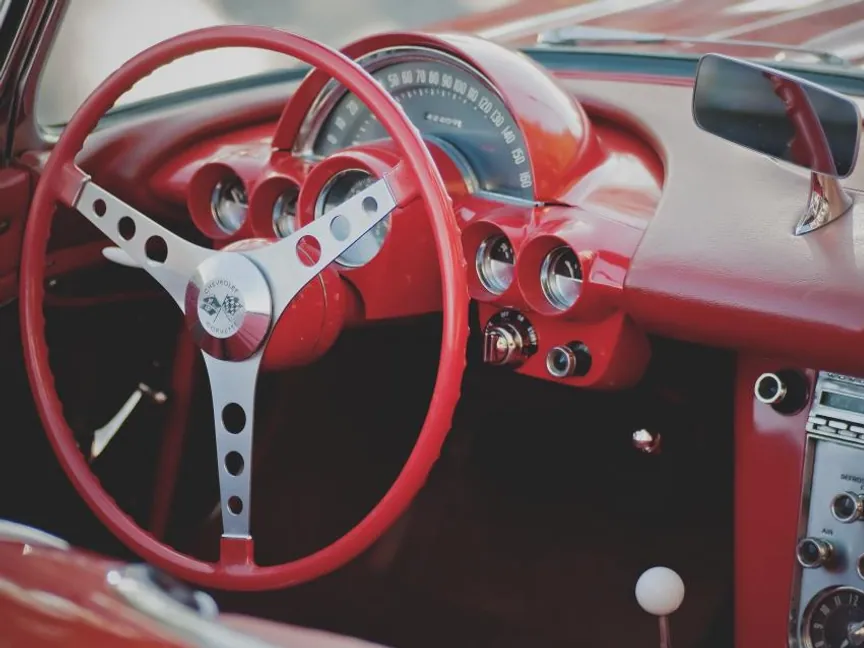
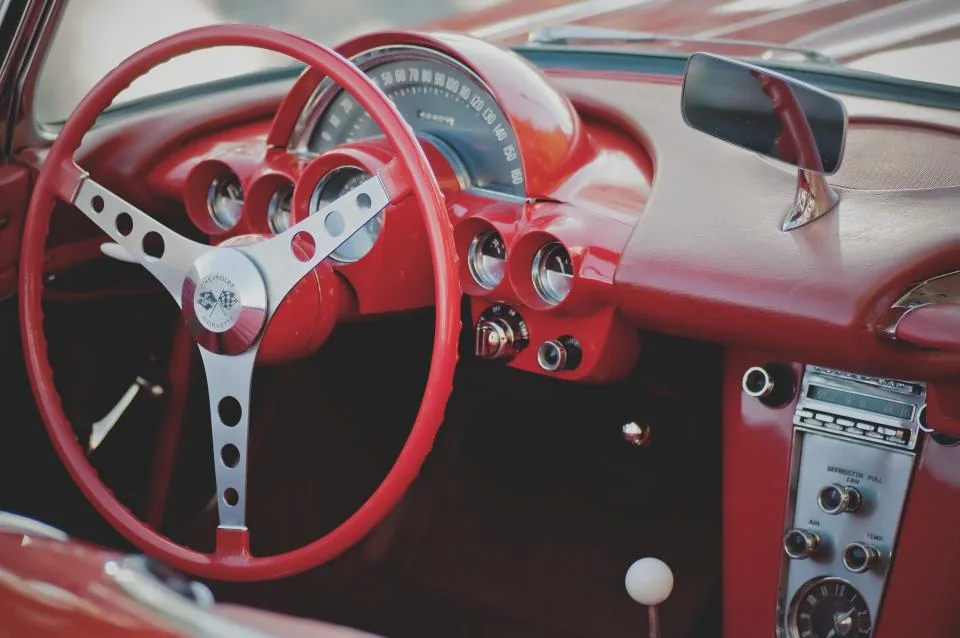
Home categories: magazine mosaic with full-bleed photos
A 2×2 lead tile, four squares, then a wide tile and two squares, closing as
a rectangle on desktop and on phones. The name sits on the photo over a
dark foot shade, with a hairline mount inside the edge; hover zooms the
photo and underlines "Explorează". Photos at their source size, with a
per-photo crop anchor. The section gets a "Vezi toate" link.

diff --git a/src/features/home/components/category-cards.tsx b/src/features/home/components/category-cards.tsx
@@ -1,53 +1,105 @@
 import { ArrowRight } from "@/components/icons"
 import Image from "next/image"
 import Link from "next/link"
+import { getTranslations } from "next-intl/server"
 import { CategoryIcon } from "@/features/auctions/components/category-icon"
 import type { CategoryGroup } from "@/features/auctions/queries"
-import { CATEGORY_PHOTOS } from "../category-photos"
+import { cn } from "@/lib/utils"
+import { CATEGORY_PHOTO_FOCUS, CATEGORY_PHOTOS } from "../category-photos"
 
-/** Home page categories: a photo of a typical object, the name in the serif, a few aisles. */
-export function CategoryCards({ tree }: { tree: CategoryGroup[] }) {
+/**
+ * Tile sizes in the mosaic, by position. Desktop (4 columns): a 2×2 lead tile, four squares
+ * beside it, then a wide tile and two squares, so the block closes as a rectangle. Phones
+ * (2 columns): the lead and the wide tile span both columns.
+ */
+const TILE = [
+  "col-span-2 row-span-2 lg:col-span-2 lg:row-span-2",
+  "",
+  "",
+  "",
+  "",
+  "col-span-2",
+  "",
+  "",
+] as const
+
+/** Home page categories: full-bleed photos with the name set on them, as a magazine mosaic. */
+export async function CategoryCards({ tree }: { tree: CategoryGroup[] }) {
+  const t = await getTranslations("home")
   return (
-    <ul className="grid grid-cols-2 gap-3 md:gap-4 lg:grid-cols-4">
-      {tree.map((c) => {
+    <ul className="grid auto-rows-[10.5rem] grid-cols-2 gap-3 sm:auto-rows-[13rem] md:gap-4 lg:auto-rows-[14.5rem] lg:grid-cols-4">
+      {tree.map((c, i) => {
         const photo = CATEGORY_PHOTOS[c.slug]
+        const lead = i === 0
         return (
-          <li key={c.slug}>
+          <li key={c.slug} className={cn(TILE[i] ?? "")}>
             <Link
               href={`/categorie/${c.slug}`}
-              className="group flex h-full flex-col overflow-hidden rounded-lg border bg-card transition-colors duration-150 ease-out hover:border-input"
+              className="group relative isolate block size-full overflow-hidden rounded-lg bg-ink text-ink-foreground"
             >
-              <span className="relative block aspect-[4/3] overflow-hidden bg-tint">
-                {photo ? (
-                  <Image
-                    src={photo}
-                    alt=""
-                    fill
-                    placeholder="blur"
-                    sizes="(min-width: 1440px) 340px, (min-width: 1024px) 25vw, 50vw"
-                    className="object-cover transition-transform duration-500 ease-out group-hover:scale-[1.04]"
-                  />
-                ) : (
-                  <CategoryIcon
-                    name={c.icon}
-                    className="absolute top-1/2 left-1/2 size-12 -translate-1/2 text-primary"
-                  />
+              {photo ? (
+                <Image
+                  src={photo}
+                  alt=""
+                  fill
+                  placeholder="blur"
+                  style={{ objectPosition: CATEGORY_PHOTO_FOCUS[c.slug] }}
+                  sizes={
+                    lead
+                      ? "(min-width: 1024px) 50vw, 100vw"
+                      : "(min-width: 1024px) 25vw, (min-width: 640px) 50vw, 50vw"
+                  }
+                  className="-z-10 object-cover transition-transform duration-700 ease-out group-hover:scale-[1.05]"
+                />
+              ) : (
+                <CategoryIcon
+                  name={c.icon}
+                  className="absolute top-1/3 left-1/2 -z-10 size-16 -translate-1/2 text-ink-accent"
+                />
+              )}
+              {/* Shade for the type: deep at the foot, clear at the top. */}
+              <span
+                aria-hidden
+                className="absolute inset-0 -z-10 bg-linear-to-t from-ink/90 via-ink/30 to-ink/0 transition-opacity duration-300 ease-out group-hover:opacity-95"
+              />
+              {/* A hairline inside the edge, like a print mount. */}
+              <span
+                aria-hidden
+                className="pointer-events-none absolute inset-2 rounded-md border border-ink-foreground/15 transition-colors duration-300 ease-out group-hover:border-ink-foreground/35 md:inset-2.5"
+              />
+              <span
+                className={cn(
+                  "absolute inset-x-0 bottom-0 flex flex-col p-4 md:p-6",
+                  lead && "md:p-9",
                 )}
-              </span>
-              <span className="flex flex-1 items-center justify-between gap-3 px-3.5 py-3 md:px-5 md:py-4">
-                <span className="min-w-0">
-                  <span className="block font-display text-lg leading-tight md:text-xl">
-                    {c.name}
-                  </span>
-                  <span className="mt-0.5 hidden truncate text-sm text-muted-foreground sm:block">
-                    {c.children
-                      .slice(0, 3)
-                      .map((s) => s.name)
-                      .join(" · ")}
-                  </span>
+              >
+                <span
+                  className={cn(
+                    "font-display leading-[1.05] tracking-[-0.01em] text-balance",
+                    lead ? "text-[2rem] md:text-5xl" : "text-xl md:text-2xl",
+                  )}
+                >
+                  {c.name}
                 </span>
-                <span className="hidden size-9 shrink-0 place-items-center rounded-md border text-primary transition-colors duration-150 ease-out group-hover:border-primary group-hover:bg-primary group-hover:text-primary-foreground sm:grid">
-                  <ArrowRight aria-hidden className="size-4" />
+                <span
+                  className={cn(
+                    "mt-1.5 hidden truncate text-sm text-ink-foreground/75 sm:block",
+                    lead && "md:mt-3 md:text-base",
+                  )}
+                >
+                  {c.children
+                    .slice(0, lead ? 5 : 3)
+                    .map((s) => s.name)
+                    .join(" · ")}
+                </span>
+                <span className="mt-2 hidden items-center gap-1.5 text-sm font-semibold text-ink-foreground sm:flex">
+                  <span className="relative after:absolute after:inset-x-0 after:-bottom-0.5 after:h-px after:origin-left after:scale-x-0 after:bg-current after:transition-transform after:duration-300 after:ease-out group-hover:after:scale-x-100">
+                    {t("categoryExplore")}
+                  </span>
+                  <ArrowRight
+                    aria-hidden
+                    className="size-4 transition-transform duration-300 ease-out group-hover:translate-x-1"
+                  />
                 </span>
               </span>
             </Link>

diff --git a/src/app/(site)/page.tsx b/src/app/(site)/page.tsx
@@ -171,7 +171,13 @@ async function Categories() {
   const [t, tree] = await Promise.all([getTranslations("home"), getCategoryTree()])
   return (
     <section aria-labelledby="categorii" className="container-page pt-20">
-      <SectionHeader id="categorii" eyebrow={t("eyebrowCategories")} title={t("categories")} />
+      <SectionHeader
+        id="categorii"
+        eyebrow={t("eyebrowCategories")}
+        title={t("categories")}
+        href="/cauta"
+        seeAll={t("seeAll")}
+      />
       <CategoryCards tree={tree} />
     </section>
   )

diff --git a/src/features/home/category-photos.ts b/src/features/home/category-photos.ts
@@ -19,3 +19,8 @@ export const CATEGORY_PHOTOS: Record<string, StaticImageData> = {
   copii,
   carti,
 }
+
+/** Where to anchor the crop, for photos whose subject is off-centre (CSS object-position). */
+export const CATEGORY_PHOTO_FOCUS: Record<string, string> = {
+  "casa-gradina": "50% 42%",
+}

diff --git a/src/assets/categories/README.md b/src/assets/categories/README.md
@@ -1,15 +1,16 @@
 # Category photos
 
 Home page category cards. All CC0 (public domain) from StockSnap, found via Openverse;
-no attribution required, listed here for reference. 864×648 WebP (4:3), cropped on the subject.
+no attribution required, listed here for reference. WebP at the source size (960 px wide); the
+cards crop them with object-fit.
 
-| Category | Title | Author | Source |
-| --- | --- | --- | --- |
-| electronice | Vintage Camera | Retro 56 | https://stocksnap.io/photo/vintage-camera-AL4SMWIJHD |
-| auto-moto | Classic Car | Scott Webb | https://stocksnap.io/photo/classic-car-C7OWNQBM79 |
-| casa-gradina | Vintage Chair | EVG Photos | https://stocksnap.io/photo/vintage-chair-SHE40GOPPL |
-| moda | Leather Purse | Snufkin | https://stocksnap.io/photo/leather-purse-Y4IBN1USSQ |
-| sport | Bike Bicycle | Michal Kulesza | https://stocksnap.io/photo/bike-bicycle-QGS22ZDL4M |
-| colectii | Coins Money | Karol Dach | https://stocksnap.io/photo/coins-money-VPSD8JT149 |
-| copii | Wooden Toys | Kristin Hardwick | https://stocksnap.io/photo/wooden-toys-CCKX20IAFE |
-| carti | Vinyl Record | Skitter Photo | https://stocksnap.io/photo/vinyl-record-0NOS06CDVI |
+| Category     | Title          | Author           | Source                                               |
+| ------------ | -------------- | ---------------- | ---------------------------------------------------- |
+| electronice  | Vintage Camera | Retro 56         | https://stocksnap.io/photo/vintage-camera-AL4SMWIJHD |
+| auto-moto    | Classic Car    | Scott Webb       | https://stocksnap.io/photo/classic-car-C7OWNQBM79    |
+| casa-gradina | Vintage Chair  | EVG Photos       | https://stocksnap.io/photo/vintage-chair-SHE40GOPPL  |
+| moda         | Leather Purse  | Snufkin          | https://stocksnap.io/photo/leather-purse-Y4IBN1USSQ  |
+| sport        | Bike Bicycle   | Michal Kulesza   | https://stocksnap.io/photo/bike-bicycle-QGS22ZDL4M   |
+| colectii     | Coins Money    | Karol Dach       | https://stocksnap.io/photo/coins-money-VPSD8JT149    |
+| copii        | Wooden Toys    | Kristin Hardwick | https://stocksnap.io/photo/wooden-toys-CCKX20IAFE    |
+| carti        | Vinyl Record   | Skitter Photo    | https://stocksnap.io/photo/vinyl-record-0NOS06CDVI   |
